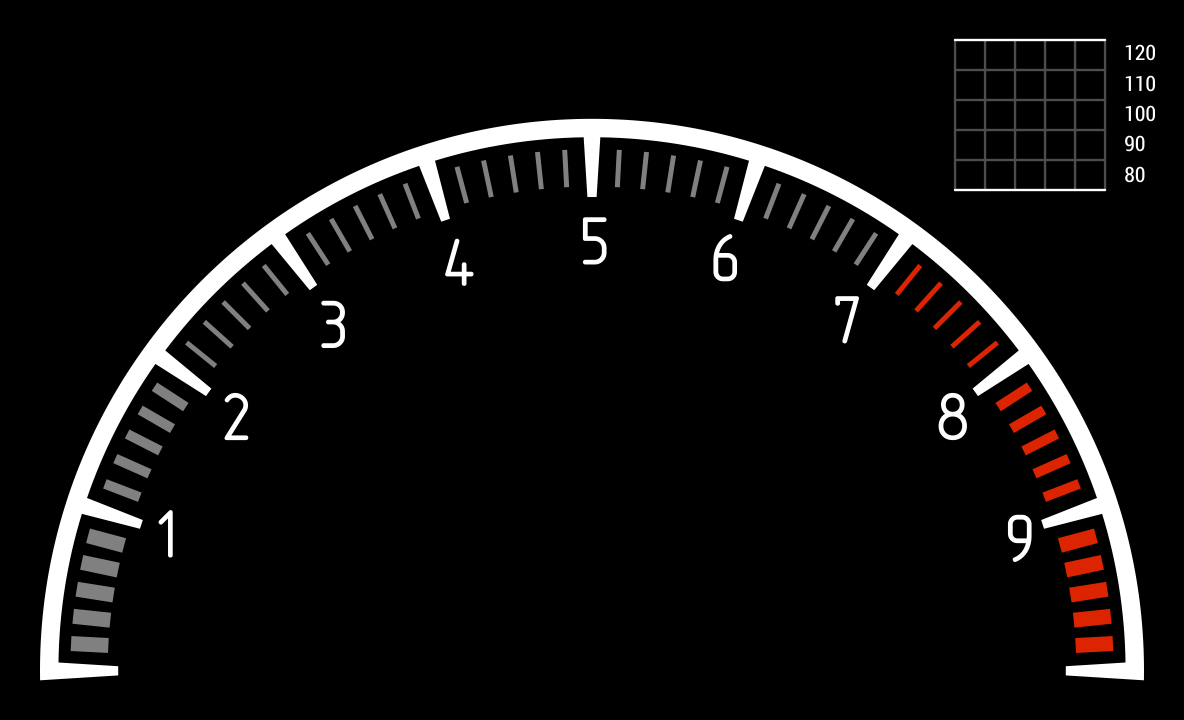
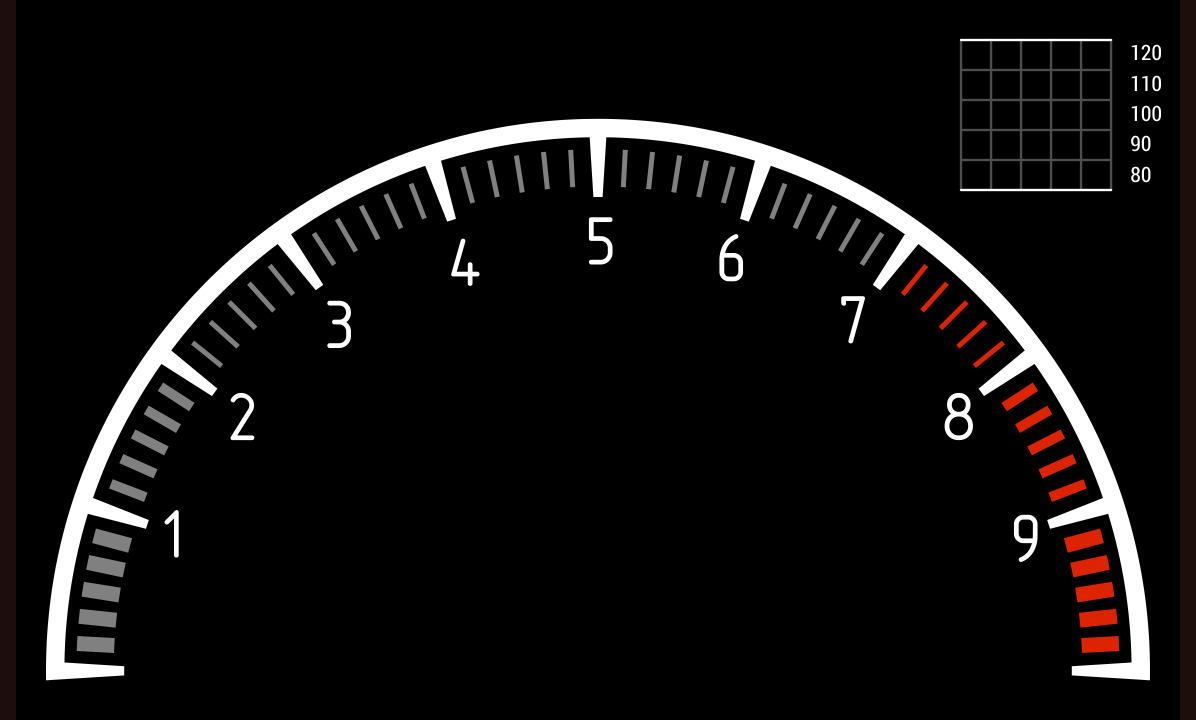
5

diff --git a/css/index.css b/css/index.css
@@ -1,7 +1,7 @@
 body, html {
     margin: 0;
     padding: 0;
-    width: 1196px
+    width: 1196px;
 }
 .fadein {
 opacity: 1;
@@ -62,7 +62,7 @@ margin: 20px;
 
 #dash_container {
     height: 720px;
-    width: 1184px;
+    width: 1196px;
 }
 #background{
 	position: absolute;
